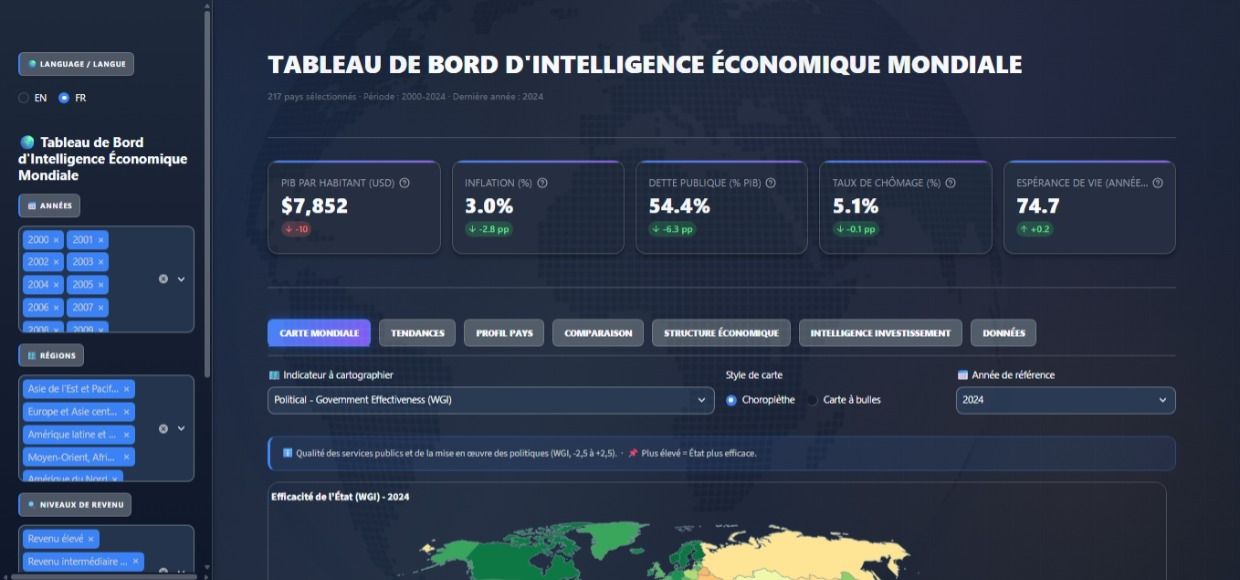
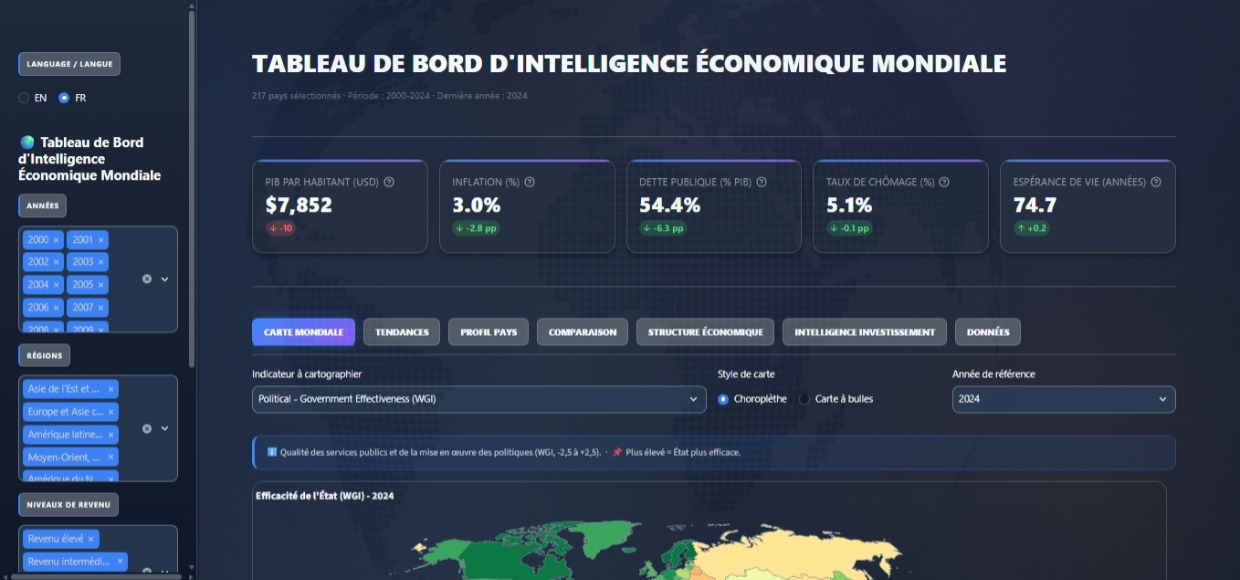
minor fixes

diff --git a/app.py b/app.py
@@ -144,15 +144,15 @@ YEAR_MAX = int(df_all["year"].max())
 ALL_YEARS = sorted(df_all["year"].unique())
 
 with st.sidebar:
-    lang = st.radio("🌍 Language / Langue", ["EN", "FR"], horizontal=True, index=0, key="lang_choice").lower()
+    lang = st.radio("Language / Langue", ["EN", "FR"], horizontal=True, index=0, key="lang_choice").lower()
     st.markdown(f"## {t('sidebar_title', lang)}")
     default_years = ALL_YEARS
-    sel_years = st.multiselect(f"📅 {t('years_label', lang)}", ALL_YEARS, default=default_years)
+    sel_years = st.multiselect(f"{t('years_label', lang)}", ALL_YEARS, default=default_years)
     if not sel_years:
         sel_years = ALL_YEARS
         st.warning(t("no_year_selected", lang))
-    sel_regions = st.multiselect(f"🗺 {t('regions', lang)}", ALL_REGIONS, default=ALL_REGIONS, format_func=lambda x: t(x, lang))
-    sel_income = st.multiselect(f"🔍 {t('income_levels', lang)}", INCOME_ORDER, default=INCOME_ORDER, format_func=lambda x: t(x, lang))
+    sel_regions = st.multiselect(f"{t('regions', lang)}", ALL_REGIONS, default=ALL_REGIONS, format_func=lambda x: t(x, lang))
+    sel_income = st.multiselect(f"{t('income_levels', lang)}", INCOME_ORDER, default=INCOME_ORDER, format_func=lambda x: t(x, lang))
     st.divider()
     st.caption(t("source", lang))
 
@@ -237,9 +237,9 @@ tab_map, tab_trend, tab_country, tab_compare, tab_struct, tab_invest, tab_data =
 
 with tab_map:
     c1, c2, c3 = st.columns([2, 1, 1])
-    with c1: map_ind = st.selectbox(f"🗺 {t('map_indicator', lang)}", INDICATOR_KEYS, format_func=lambda x: ind_label(x, lang, with_pillar=True), key="map_ind")
+    with c1: map_ind = st.selectbox(f"{t('map_indicator', lang)}", INDICATOR_KEYS, format_func=lambda x: ind_label(x, lang, with_pillar=True), key="map_ind")
     with c2: map_type = st.radio(t("map_type", lang), ["choropleth", "bubble"], format_func=lambda x: t(x, lang), horizontal=True)
-    with c3: map_year = st.selectbox(f"📅 {t('ref_year', lang)}", sorted(sel_years, reverse=True), index=0, key="map_yr")
+    with c3: map_year = st.selectbox(f"{t('ref_year', lang)}", sorted(sel_years, reverse=True), index=0, key="map_yr")
     show_indicator_info(map_ind, lang)
     
     size_choice_key = None
@@ -701,7 +701,7 @@ with tab_invest:
     )
     st.plotly_chart(style_plotly(fig_score_map, theme_mode), width="stretch", theme="streamlit")
 
-    st.markdown(f"**🏅 {t('invest_top10', lang, y=invest_year)}**")
+    st.markdown(f"** {t('invest_top10', lang, y=invest_year)}**")
     df_top = df_filtered.sort_values("investment_score", ascending=False).head(10).copy()
     df_top["_cname"] = df_top["country"].map(lambda n: cname(n, lang))
     df_top["income_group"] = df_top["income_group"].map(lambda x: t(x, lang))
@@ -853,7 +853,7 @@ with tab_invest:
         fig_opp.update_layout(margin=dict(t=50, b=20, l=10, r=10), height=400, legend=dict(orientation="h", y=-0.2))
         st.plotly_chart(style_plotly(fig_opp, theme_mode), width="stretch", theme="streamlit")
 
-        st.markdown(f"**🔍 {t('invest_top3_detail', lang)}**")
+        st.markdown(f"** {t('invest_top3_detail', lang)}**")
         top3_cols = st.columns(3)
         for i, (_, row) in enumerate(df_clean.head(3).iterrows()):
             with top3_cols[i]:

diff --git a/translations.py b/translations.py
@@ -109,16 +109,16 @@ TRANSLATIONS = {
         "violin_title": "GDP/capita distribution by income level ({y})",
         "gdp_log": "GDP/capita (USD) - log scale",
         "ranking_indicator": "Ranking indicator",
-        "top10": "🏆 Top 10 - {ind} ({y})",
-        "bottom10": "⚠ Bottom 10 - {ind} ({y})",
+        "top10": "Top 10 - {ind} ({y})",
+        "bottom10": "Bottom 10 - {ind} ({y})",
         "animated_title": "Sector structure over time",
         "animated_region": "Region for animation",
         "anim_chart_title": "Median sector structure - {r}",
 
-        "search_country": "🔍 Search a country",
+        "search_country": "Search a country",
         "filter_region": "Filter by region",
         "showing": "Showing **{n} countries** - year {y}",
-        "export_csv": "⬇ Export ({n} countries · {y}) - CSV",
+        "export_csv": "Export ({n} countries · {y}) - CSV",
         "pestel_pillar_label": "PESTEL Pillar",
         "pestel_all": "All pillars",
         "col_country": "Country",
@@ -366,16 +366,16 @@ TRANSLATIONS = {
         "violin_title": "Distribution du PIB/hab par niveau de revenu ({y})",
         "gdp_log": "PIB/habitant (USD) - échelle log",
         "ranking_indicator": "Indicateur de classement",
-        "top10": "🏆 Top 10 - {ind} ({y})",
-        "bottom10": "⚠ Bottom 10 - {ind} ({y})",
+        "top10": "Top 10 - {ind} ({y})",
+        "bottom10": "Bottom 10 - {ind} ({y})",
         "animated_title": "Évolution de la structure sectorielle",
         "animated_region": "Région pour l'animation",
         "anim_chart_title": "Structure sectorielle médiane - {r}",
 
-        "search_country": "🔍 Rechercher un pays",
+        "search_country": "Rechercher un pays",
         "filter_region": "Filtrer par région",
         "showing": "Affichage de **{n} pays** - année {y}",
-        "export_csv": "⬇ Exporter ({n} pays · {y}) - CSV",
+        "export_csv": "Exporter ({n} pays · {y}) - CSV",
         "pestel_pillar_label": "Pilier PESTEL",
         "pestel_all": "Tous les piliers",
         "col_country": "Pays",
